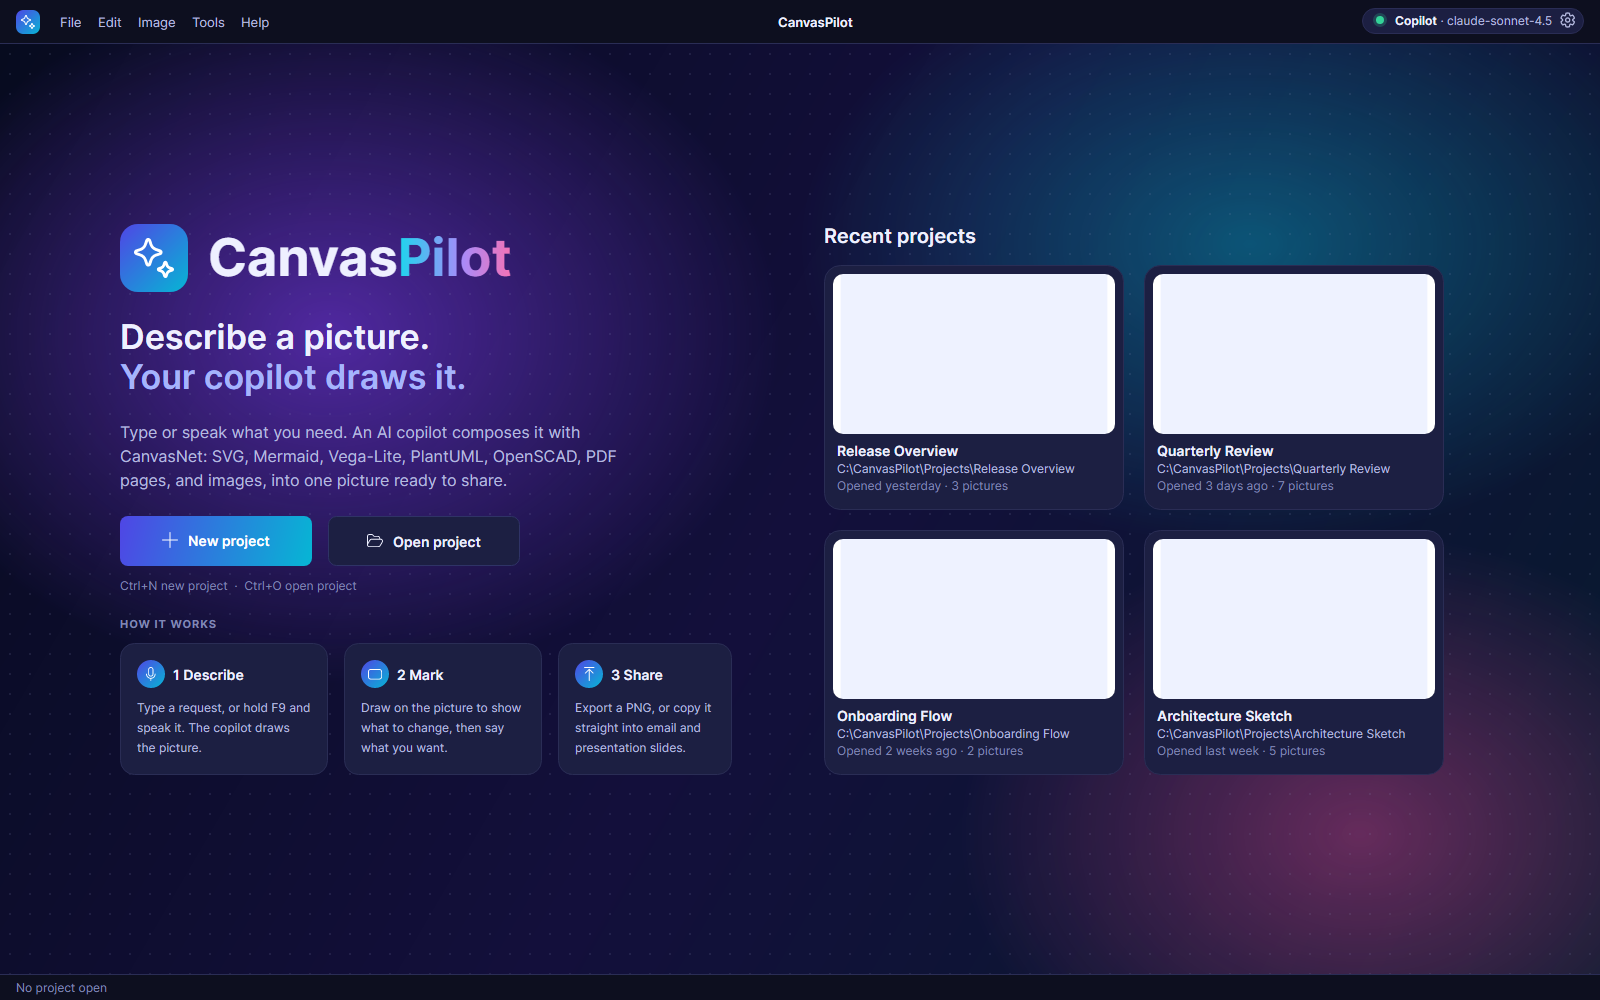
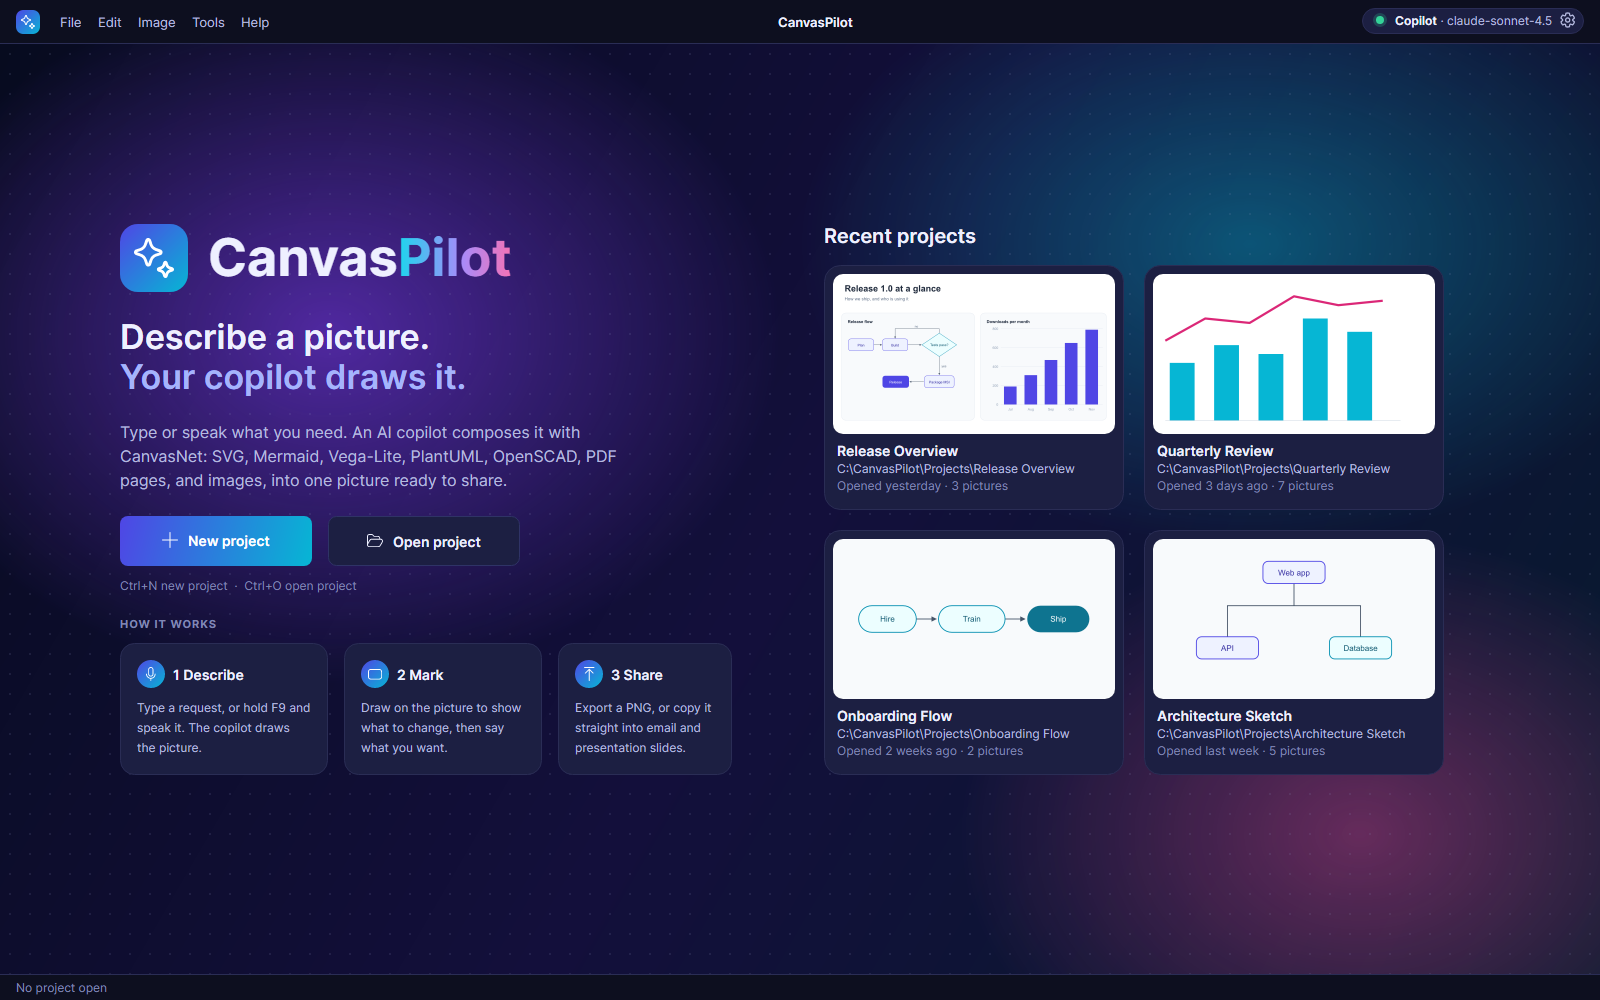
fix: draw the real pictures on the recent-project cards of the welcome screenshot
The card shows the picture that was changed last. The demo wrote the main picture first and the plain filler pictures after it, so the card showed a filler: a blank card. Write the fillers first with an older time and give the main picture a newer time.

diff --git a/test/DemaConsulting.CanvasPilot.UiTests/ScreenshotDemo.cs b/test/DemaConsulting.CanvasPilot.UiTests/ScreenshotDemo.cs
@@ -108,11 +108,20 @@ internal static class ScreenshotDemo
     /// <param name="pictures">The number of pictures that the project holds.</param>
     public static void WriteWelcomeProject(string folder, string mainPicture, int pictures)
     {
-        File.WriteAllText(Path.Combine(folder, "a-main.svg"), mainPicture, Encoding.UTF8);
+        // A card shows the picture that was changed last, so the small pictures get an older time and the main one a newer
+        // time that is set explicitly: a file that is written a moment later can carry the same time stamp, and the card
+        // would then show one of the plain small pictures, which is a blank card
+        var written = DateTime.UtcNow;
         for (var number = 2; number <= pictures; number++)
         {
-            File.WriteAllText(Path.Combine(folder, $"z-{number}.svg"), SmallPicture, Encoding.UTF8);
+            var small = Path.Combine(folder, $"z-{number}.svg");
+            File.WriteAllText(small, SmallPicture, Encoding.UTF8);
+            File.SetLastWriteTimeUtc(small, written.AddMinutes(-10));
         }
+
+        var main = Path.Combine(folder, "a-main.svg");
+        File.WriteAllText(main, mainPicture, Encoding.UTF8);
+        File.SetLastWriteTimeUtc(main, written);
     }
 
     /// <summary>
